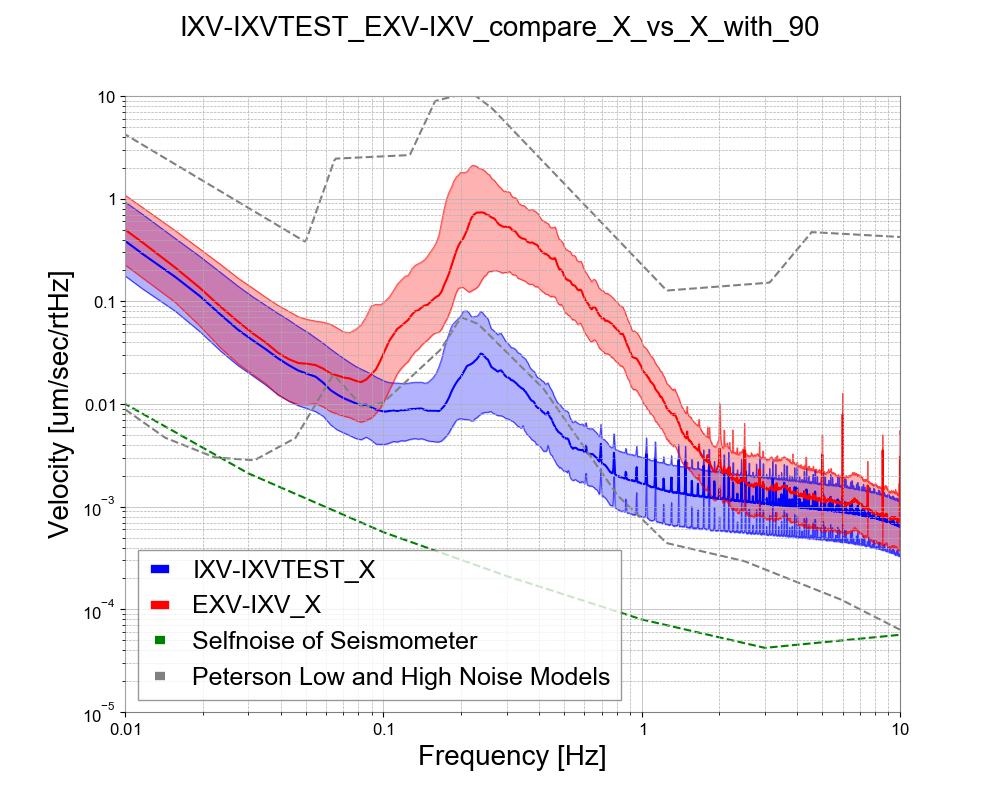
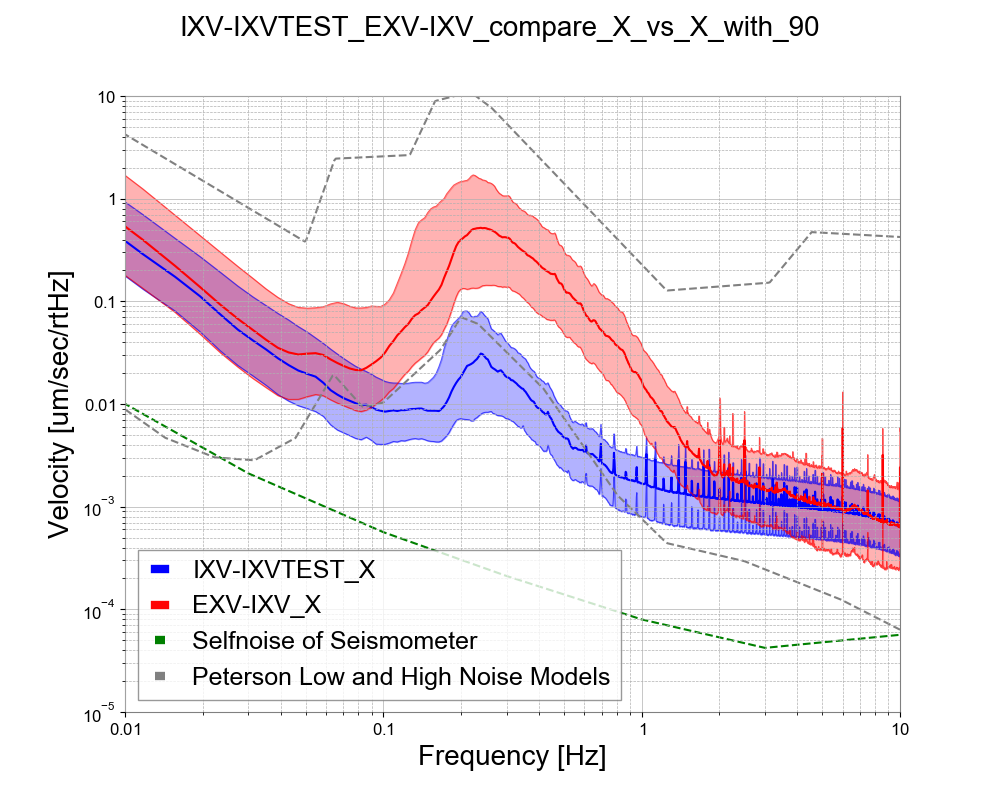
Update resilts

diff --git a/ugm/seismicnoise/main2_seismicnoise.py b/ugm/seismicnoise/main2_seismicnoise.py
@@ -7,8 +7,6 @@ from gwpy.spectrogram import Spectrogram
 from miyopy.utils.trillium import Trillium
 from gwpy.types.array2d import Array2D
 
-tr120 = Trillium('120QA')
-v2vel = tr120.v2vel    
 
 #-------------------------------------------------------------------------------
 def peterson_noise_model(unit='um/sec'):
@@ -51,13 +49,19 @@ def peterson_noise_model(unit='um/sec'):
     
 def _percentile(axis,pctl=50,unit='um/sec',suffix='',_dir='',**kwargs):
     fname = './data2/{3}/{0}_{1}.hdf5'.format(axis,pctl,suffix,_dir)
-    _asd = FrequencySeries.read(fname)**0.5
-    amp = 10**(30.0/20.0)
+    model = kwargs.pop('model',None)
+    _asd = FrequencySeries.read(fname)**0.5    
+    if model=='120QA':
+        amp = 10**(30.0/20.0)
+    elif model=='compact':
+        amp = 10**(45.0/20.0)
+    seis = Trillium(model)
+    v2vel = seis.v2vel
     c2v = 20.0/2**15    
     _asd = v2vel(_asd)*c2v/amp*1e6
     if unit=='um':
         asd = _asd/(2.0*np.pi*_asd.frequencies.value)
-        #asd.write('./LongTerm_{0}_{1}_DISP.txt'.format(axis,pctl),format='txt')        
+        #asd.write('./LongTerm_{0}_{1}_DISP.txt'.format(axis,pctl),format='txt')
     elif unit=='um/sec':
         asd = _asd
         #asd.write('./LongTerm_{0}_{1}_VELO.txt'.format(axis,pctl),format='txt')
@@ -109,13 +113,20 @@ def hoge(fname=None,unit='um/sec',**kwargs):
     dof = dof.split('_vs_')
     option = suffix.split('_')
     dof = list(set(dof))
-    
+    print(path)
     if not len(set(dof)&set(['X','Y','Z','H','V'])):
         path = [path[0]+'_'+_dof for _dof in dof]
         dof = list(filter(lambda x:x in ['X','Y','Z','H','V'], option))
         option  = list(set(option)^set(dof))
-
-    data =  [huge(_dof,_dir=_path,**kwargs) for _dof in dof for _path in path]
+        
+    data = []
+    for _path in path:
+        for _dof in dof:
+            if 'V' in _path:
+                model = '120QA'
+            else:
+                model = 'compact'
+            data += [huge(_dof,_dir=_path,model=model,**kwargs)]
     
     # Plot
     fig, ax = plt.subplots(1,1,figsize=(10,8))
@@ -132,7 +143,13 @@ def hoge(fname=None,unit='um/sec',**kwargs):
             ax.plot_mmm(asd50,asd01,asd99,color=_color,zorder=0,alpha=0.1)
             
     if plot_selfnoise:
-        selfnoise = tr120.selfnoise(unit=unit.replace('um','m'))*1e6        
+        if 'V' in path[0]:
+            model = '120QA'
+        else:
+            model = 'compact'
+        print(model)
+        seis = Trillium(model)            
+        selfnoise = seis.selfnoise(unit=unit.replace('um','m'))*1e6
         ax.loglog(selfnoise,'g--',label='Selfnoise of Seismometer',alpha=1.0)
     if peterson:
         nlnm,nhnm = peterson_noise_model(unit=unit)        
@@ -175,6 +192,9 @@ if __name__ == '__main__':
               'EXVspring_EXVautumn_compare_V_vs_V_with_90.png',              
               'EXVspring_EXVsummer_compare_H_vs_H_with_90.png',
               'EXVspring_EXVsummer_compare_V_vs_V_with_90.png',
+              'MCE_compare_V_vs_H_with_90.png',
+              'MCE_MCF_compare_H_vs_H_with_90.png',              
+              'MCE_IXV_compare_X_vs_X_with_90.png',              
               ]
 
     for fname in fnames:

diff --git a/ugm/seismicnoise/main2_plotSegments.py b/ugm/seismicnoise/main2_plotSegments.py
@@ -1,0 +1,72 @@
+import numpy as np
+import matplotlib
+matplotlib.use('agg')
+import matplotlib.pyplot as plt
+
+    
+def plotpi(gauss,nonegauss,lack,seis):
+    data = [len(gauss),len(nonegauss),len(lack)]
+    label = ['Gaussian','Non-Gaussian','Lack of Data']
+    fig,ax=plt.subplots(1,1,figsize=(7,3))
+    wedges,texts,autotexts = ax.pie(
+        data,startangle=90,counterclock=False,
+        wedgeprops={'linewidth':1, 'edgecolor':"black"},
+        autopct="%1.1f%%",textprops=dict(color="w"),colors=['g','y','red'])
+    ax.legend(wedges, label,title="Conditions of the \nData Segments",
+              loc="center left",bbox_to_anchor=(1, 0, 0.5, 1))
+    plt.setp(autotexts, size=12, weight="bold")
+    plt.title(seis)
+    fname = './results/segmentpi_{0}.png'.format(seis)
+    print(fname)    
+    plt.savefig(fname)
+    plt.close()
+
+    
+def plotlist(total,gauss,nonegauss,lack,seis):
+    fname = './results/segmentlist_{0}.png'.format(seis)
+    start, end = total[0][0],total[-1][1]
+    from gwpy.segments import DataQualityFlag
+    gauss = DataQualityFlag(name='Gaussian ({0})'.format(len(gauss)),
+                             active=gauss,
+                             known=[(start,end)])
+    lack = DataQualityFlag(name='Lack of Data ({0})'.format(len(lack)),
+                           active=lack,
+                           known=[(start,end)])
+    nonegauss = DataQualityFlag(name='Non-Gaussian ({0})'.format(len(nonegauss)),
+                                 active=nonegauss,known=[(start,end)])
+    total = DataQualityFlag(name='Total ({0})'.format(len(total)),
+                            active=total,known=[(start,end)])
+    args = gauss,nonegauss,lack,total
+    start = args[0].known[0].start
+    end = args[0].known[0].end
+    plot = args[0].plot(figsize=(14,5),epoch=start,xlim=(start,end))
+    ax = plot.gca()
+    for data in args[1:]:
+        ax.plot(data,label=data.name)
+    ax.set_xlim(start,end)
+    print(fname)
+    plt.title(seis)
+    plt.savefig(fname)
+
+    
+
+from dataquality.dataquality import DataQuality
+fmt_total = 'select startgps,endgps from {2} WHERE ' +\
+            '(startgps>={0} and endgps<={1})'
+fmt_lack = 'select startgps,endgps from {2} WHERE (flag=2 or flag=4) and' +\
+           '(startgps>={0} and endgps<={1})'
+fmt_gauss = 'select startgps,endgps from {2} WHERE flag=0 and ' +\
+            '(startgps>={0} and endgps<={1})'
+fmt_nonegauss = 'select startgps,endgps from {2} WHERE flag=8 and ' +\
+                '(startgps>={0} and endgps<={1})'
+
+start,end = 1211817600, 1245372032                
+seislist = ['EXV_SEIS','IXV_SEIS','IXVTEST_SEIS','MCE_SEIS','MCF_SEIS','BS_SEIS']
+for seis in seislist:
+    with DataQuality('./dataquality/dqflag.db') as db:
+        total = db.ask(fmt_total.format(start,end,seis))
+        gauss = db.ask(fmt_gauss.format(start,end,seis))
+        nonegauss = db.ask(fmt_nonegauss.format(start,end,seis))
+        lack = db.ask(fmt_lack.format(start,end,seis))    
+        plotpi(gauss,nonegauss,lack,seis)
+        plotlist(total,gauss,nonegauss,lack,seis)        

diff --git a/ugm/seismicnoise/dataquality/dataquality.py b/ugm/seismicnoise/dataquality/dataquality.py
@@ -39,17 +39,13 @@ class DataQuality(object):
             if total!=0:                
                 raise ValueError('SegmentList Error: Missmatch the number '+\
                                  'of segments.')
-        else:
-            print('DB OK')
         
     def __enter__(self):
-        print("Hello!")
         return self
     
     def __exit__(self, ex_type, ex_value, trace):
         self.conn.commit()
         self.conn.close()
-        print('Close. Bye!')
         
     def bals(self):
         '''Initialize only TEST table

diff --git a/ugm/seismicnoise/README.md b/ugm/seismicnoise/README.md
@@ -68,3 +68,9 @@ If there are no bad signal mentioned above in a segment, this segment is defined
 
 ## Calculation Codes
 ## Results
+
+
+## Memo 
+
+> rsync --include='*/' --include='*png' --exclude='*' --delete -av -e ssh m31-01:~/kagra-gif/ugm/seismicnoise/data/ ~/Git/k
+agra-gif/ugm/seismicnoise/data 
